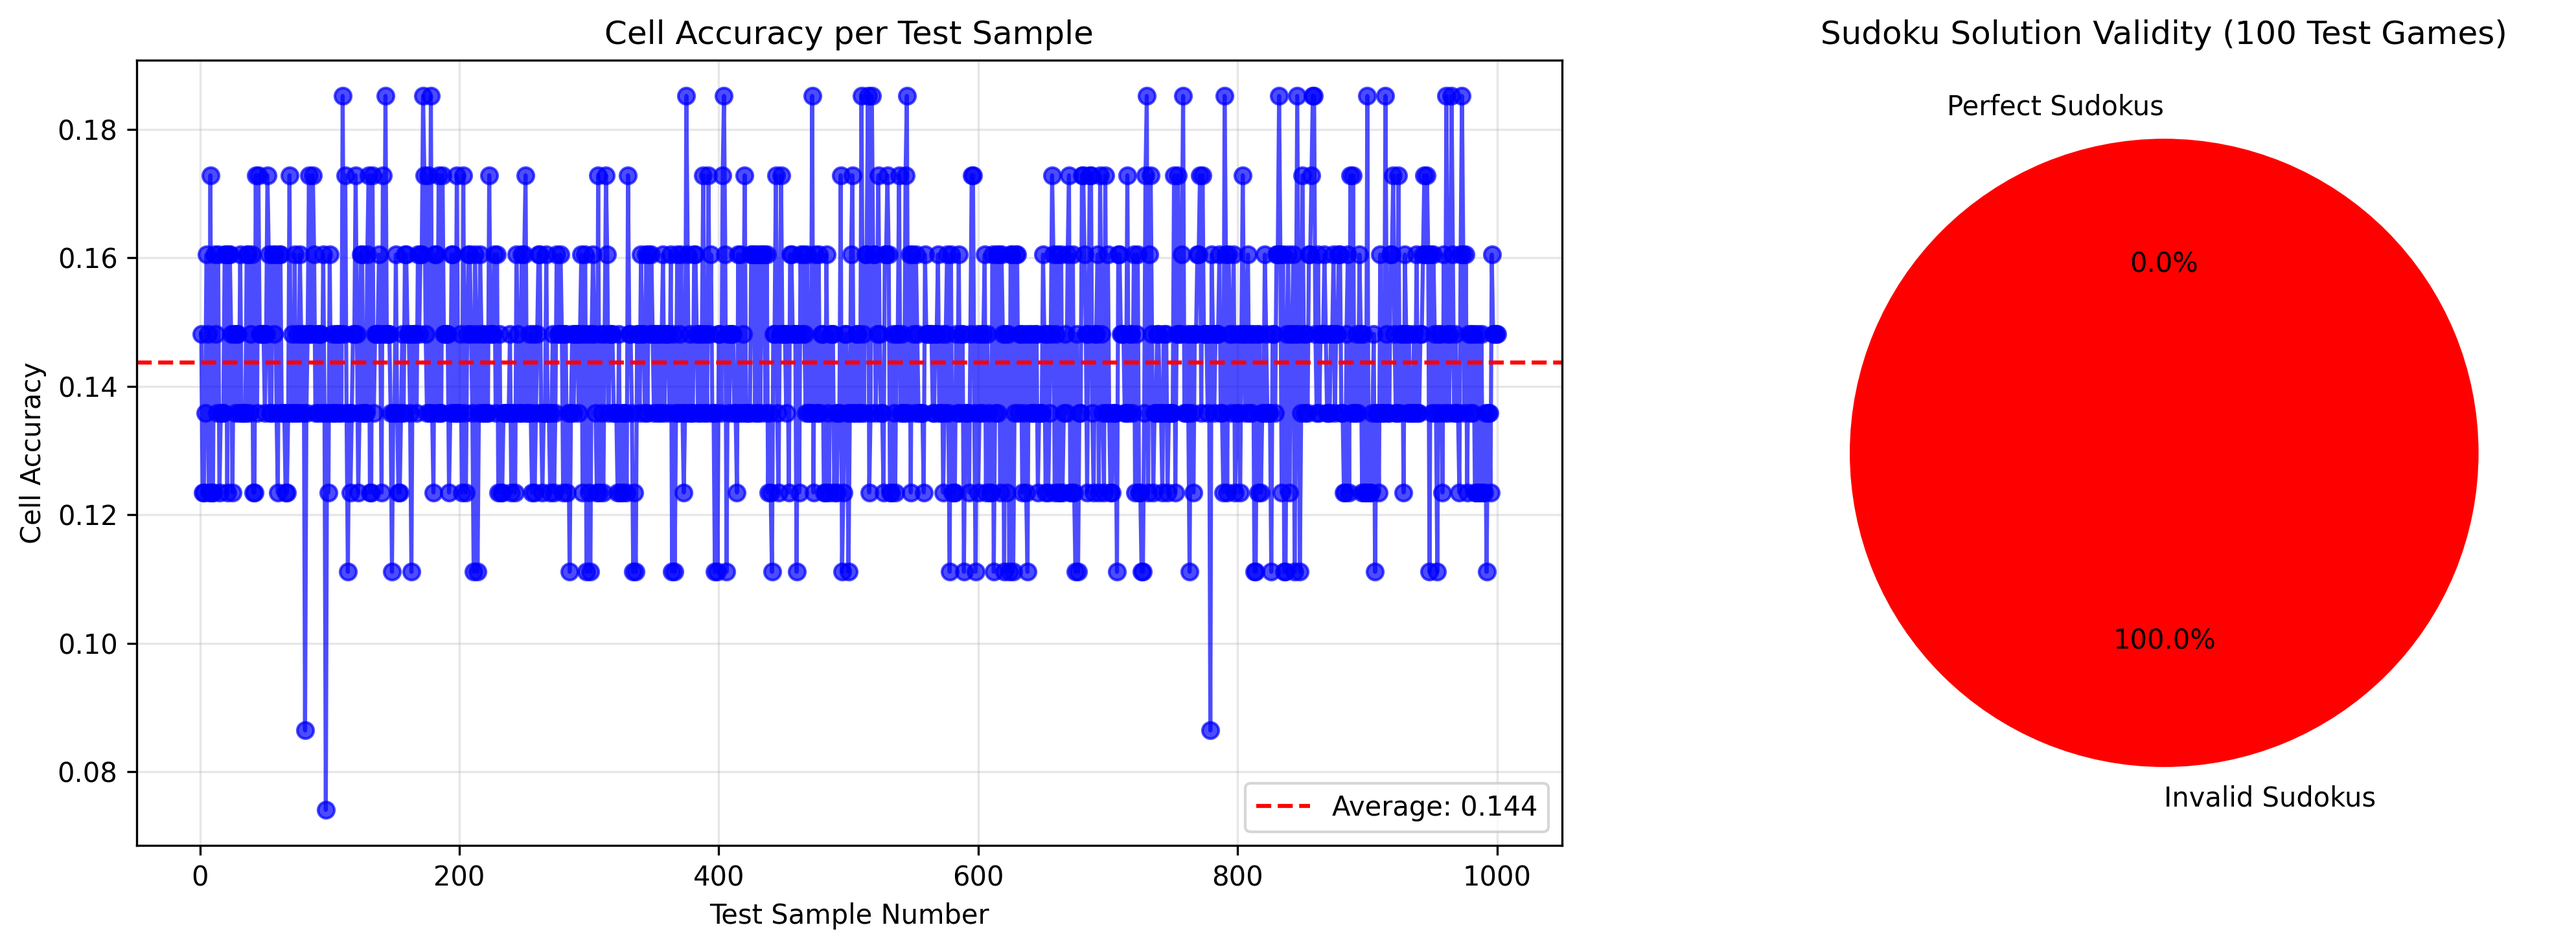
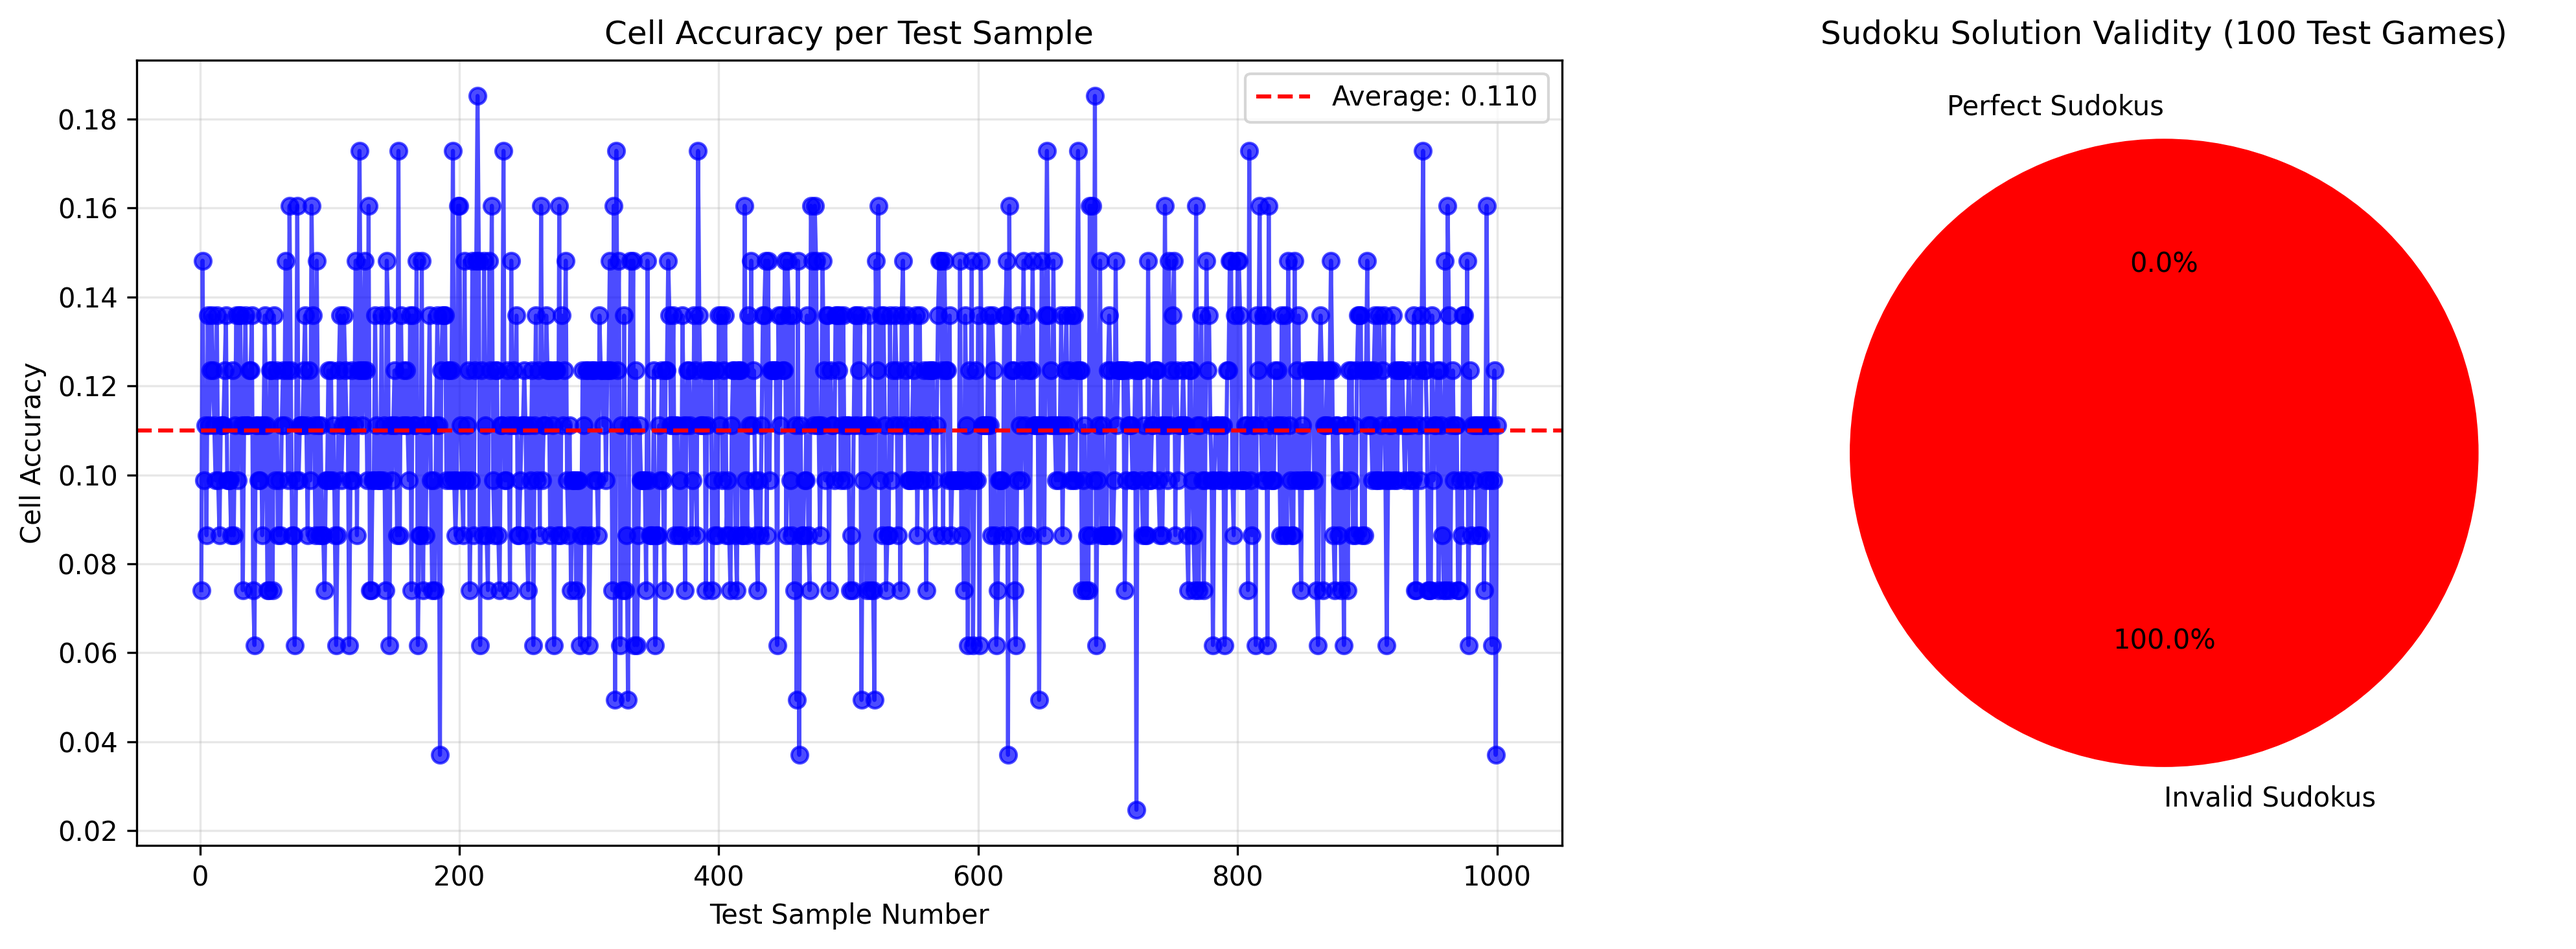
hyperparams and running for 16h training

diff --git a/hrm/hierarchical_reasoning_models.py b/hrm/hierarchical_reasoning_models.py
@@ -44,7 +44,7 @@ class HierarchicalReasoningModel(nn.Module):
             input_dim=self.config.hidden_dim,
             num_layers=self.config.num_layers,
             hidden_dim=self.config.hidden_dim,
-            num_heads=8,
+            num_heads=16,
             dropout=self.config.dropout
         )
 
@@ -52,25 +52,10 @@ class HierarchicalReasoningModel(nn.Module):
             input_dim=self.config.hidden_dim,
             num_layers=self.config.num_layers,
             hidden_dim=self.config.hidden_dim,
-            num_heads=8,
+            num_heads=16,
             dropout=self.config.dropout
         )
 
-        """
-        self.High_net = RecurrentModule(
-            input_dim=self.config.hidden_dim,  # Use hidden_dim, not input_dim
-            num_layers=self.config.num_layers,
-            hidden_dim=self.config.hidden_dim,
-            dropout=self.config.dropout
-        )
-
-        self.Low_net = RecurrentModule(
-            input_dim=self.config.hidden_dim,  # Use hidden_dim, not input_dim
-            num_layers=self.config.num_layers,
-            hidden_dim=self.config.hidden_dim,
-            dropout=self.config.dropout
-        )
-        """
 
         # Combine and project to latent (hrm latent == output_dim)
         self.layer_norm = nn.LayerNorm(self.config.hidden_dim * 2)  # added
